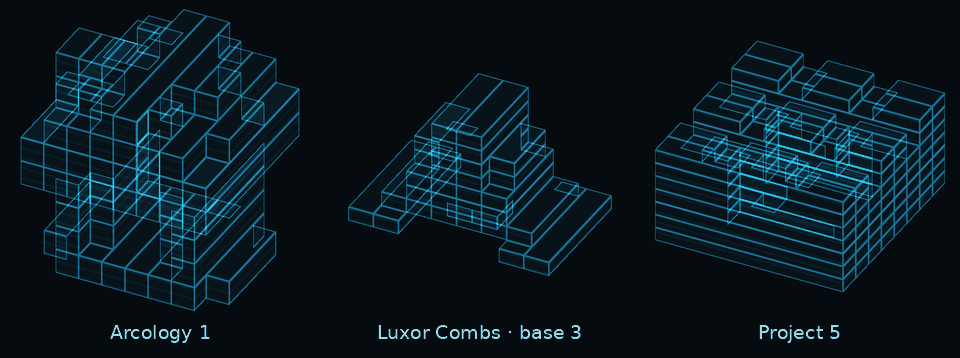
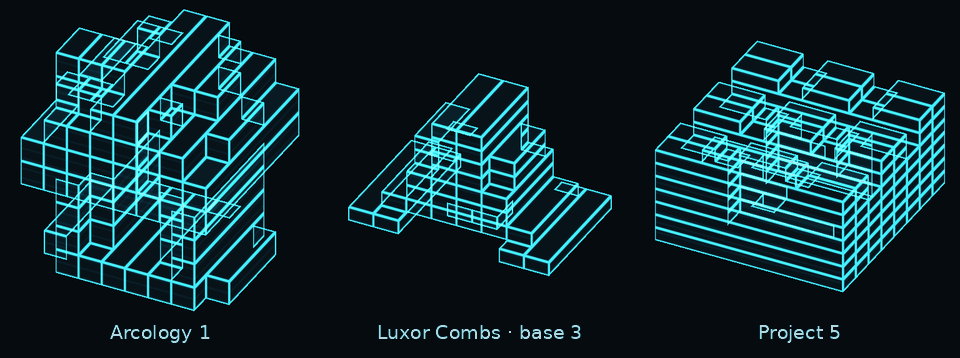
Strengthen house hologram edges with wider bright cores and a soft glow

diff --git a/docs/house-icon-holograms.md b/docs/house-icon-holograms.md
@@ -13,6 +13,11 @@ The draw pass checks local selection and current team and excludes spectators.
 Cyan geometry follows the building's normal line-of-sight and cloak checks.
 Recoil builds without private player rules parameters use cyan silhouettes.
 
+Bright cyan edges with a soft inner glow emphasize the voxel silhouette over
+the faint face fill. Border widths are measured in screen pixels, so they stay
+readable at strategic zoom. A selected host uses a slightly thicker, brighter
+amber border. The glow shares the existing draw pass and cached geometry.
+
 Procedural Arab, Asian and Western houses reuse the assembled building's
 shadow columns, including floor masks, terrain offsets, courtyards and updates
 from structural damage. The renderer meshes the exterior of the occupied runs.
